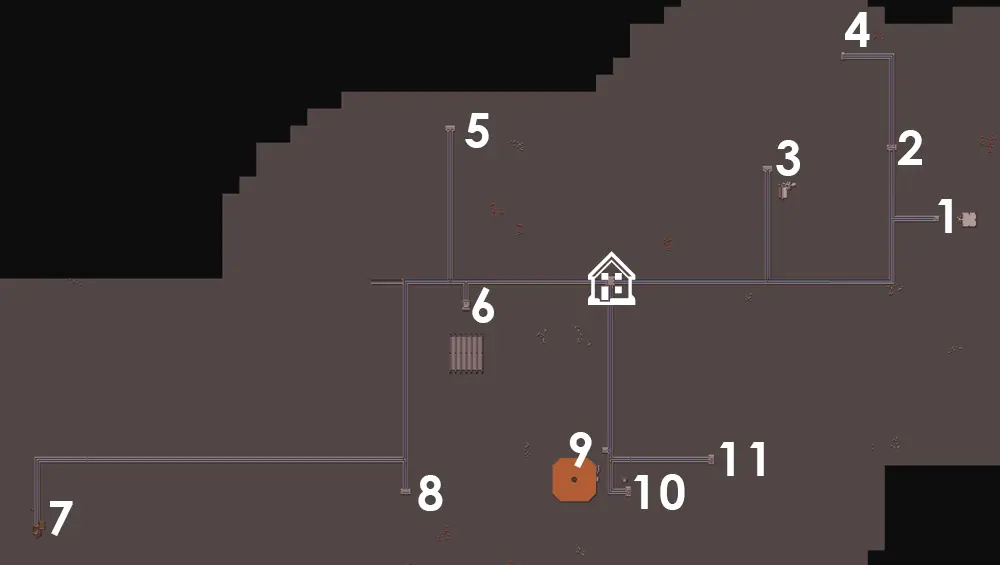
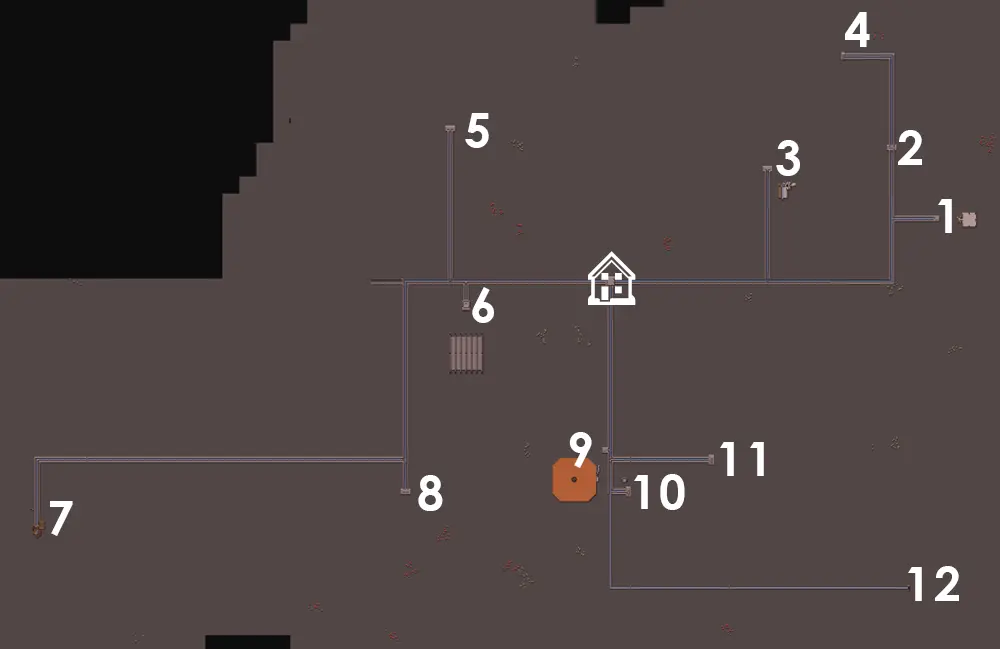
调整文档

diff --git a/docusaurus.config.ts b/docusaurus.config.ts
@@ -92,12 +92,20 @@ const config: Config = {
                     title: '文档',
                     items: [
                         {
-                            label: '服务器概述',
+                            label: '概述',
                             to: '/docs/intro',
                         },
                         {
-                            label: '加入服务器',
-                            to: '/docs/guide/alpha'
+                            label: '指南',
+                            to: '/docs/category/-指南'
+                        },
+                        {
+                            label: '地点列表',
+                            to: '/docs/category/-地点列表'
+                        },
+                        {
+                            label: '赞助者名单',
+                            to: '/docs/category/赞助者名单'
                         }
                     ],
                 },
@@ -105,13 +113,34 @@ const config: Config = {
                     title: '更多',
                     items: [
                         {
-                            label: 'GitHub',
+                            label: '本站GitHub仓库',
                             href: 'https://github.com/masterLazy/TwoThreeBlocks-Wiki',
+                        },
+                    ],
+                },
+                {
+                    title: '常用网站',
+                    items: [
+                        {
+                            label: '中文Minecraft Wiki镜像站 (Bilibili)',
+                            href: 'https://wiki.biligame.com/mc/Minecraft_Wiki',
+                        },
+                        {
+                            label: 'Modrinth (Mod 下载)',
+                            href: 'https://modrinth.com/',
+                        },
+                        {
+                            label: 'MC百科 (mcmod.cn)',
+                            href: 'https://www.mcmod.cn/',
+                        },
+                        {
+                            label: 'ChunkBase',
+                            href: 'https://www.chunkbase.com/',
                         },
                     ],
                 }
             ],
-            copyright: `Copyright © ${new Date().getFullYear()} @masterLazy | Built with Docusaurus`,
+            copyright: `Copyright © ${new Date().getFullYear()} @TwoThreeBlocks | Built with Docusaurus`,
         },
         prism: {
             theme: prismThemes.github,

diff --git a/src/pages/index.tsx b/src/pages/index.tsx
@@ -18,15 +18,15 @@ function HomepageHeader() {
                 <div className={styles.buttons}>
                     <Link
                         className="button button--secondary button--lg"
-                        to="/docs/guide/alpha">
-                        加入服务器 💬
+                        to="/docs/intro">
+                        服务器概述 📔
                     </Link>
                 </div>
                 <div className={styles.buttons}>
                     <Link
                         className="button button--secondary button--lg"
-                        to="/docs/intro">
-                        查看服务器概述
+                        to="/docs/guide/alpha">
+                        加入服务器 🖐
                     </Link>
                 </div>
             </div>

diff --git a/docs/place/netherTraffic.md b/docs/place/netherTraffic.md
@@ -32,17 +32,18 @@ sidebar_position: 2
 | **1**  | -310 -50   | [疣猪兽农场](/docs/place/machine/疣猪兽农场)                 |                                                            |
 | **2**  | +246 -124  | [【蘑菇岛】](/docs/place/landscape/蘑菇岛)                   | 这里的传送门旁边有两个绿宝石块。                           |
 | **3**  | +129 -104  | [【刷怪塔】](/docs/place/machine/刷怪塔)、[【守卫者农场】、守卫者农场收集装置](/docs/place/machine/守卫者农场) |                                                            |
-| **4**  | +200 -210  | [【~~海龟农场~~】](/docs/place/machine/海龟农场)             | 这个传送门的四角是用绿宝石块填充的，旁边也有两个绿宝石块。 |
+| **4**  | +200 -210  | [【旧海龟农场】](/docs/place/legacy/旧海龟农场)              | 这个传送门的四角是用绿宝石块填充的，旁边也有两个绿宝石块。 |
 | **5**  | -170 -143  | 【冰川】                                                     |                                                            |
 | **6**  | -1243 +562 | [恶魂塔、【恶魂塔收集装置】](/docs/place/machine/恶魂塔)     |                                                            |
 | **7**  | -559 +239  | [凋灵骷髅农场](/docs/place/machine/凋灵骷髅农场)             |                                                            |
 | **8**  | -212 +197  | [【女巫塔】](/docs/place/machine/女巫塔)                     |                                                            |
 | **9**  | -24 +161   | [僵尸猪灵塔](/docs/place/machine/僵尸猪灵塔)                 |                                                            |
-| **10** | -2 +200    | [【袭击塔】](/docs/place/machine/袭击塔)                     |                                                            |
+| **10** | -2 +200    | 【掠夺者前哨站】、[【旧袭击塔】](/docs/place/legacy/旧袭击塔) | 掠夺者前哨站在主世界的坐标：<br />`-8 +63 +1272`           |
 | **11** | +75 +170   | 【末地传送门】                                               |                                                            |
+| **12** | +262 +291  | 【古代城】                                                   |                                                            |
 
 :::note
 
-下表中【某地】表示通向某地的下界传送门。
+表中【某地】表示通向某地的下界传送门。
 
 :::

diff --git a/docs/place/legacy/旧袭击塔.md b/docs/place/legacy/旧袭击塔.md
@@ -1,4 +1,4 @@
-# 袭击塔
+# 旧袭击塔
 
 ```
 主要建造者：		sin_zri, LeaDer_LD
@@ -6,7 +6,13 @@
 主世界：			+3 ~ +1617
 ```
 
-![](/img/place/袭击塔.webp)
+:::info
+
+旧袭击塔仍然存在，但是在服务器升级到 1.21.4 后无法继续发挥作用。
+
+:::
+
+![](/img/place/旧袭击塔.webp)
 
 生产**绿宝石**、**不死图腾**、不详旗帜、鞍等。
 
@@ -26,7 +32,7 @@
 
 2. 跟随下面图示的指引，来到挂机平台。在这里喝下不详之瓶，然后会触发袭击。你在这里给怪物 “削脚”，击退袭击。
 
-![](/img/place/袭击塔教程.webp)
+![](/img/place/旧袭击塔教程.webp)
 
 3. 一轮袭击结束后，你可以跳入身后的洞中（你转身后的左边 / 图中右边小图上面没有水的那个），你会降落在一个村民旁边（不用担心，下面有水），然后通过气泡柱回到挂机平台，这样你就能触发新一轮的袭击。
 4. 确保身上的不祥之兆效果已经清空，然后你可以离开袭击塔。

diff --git a/docs/place/legacy/旧海龟农场.md b/docs/place/legacy/旧海龟农场.md
@@ -1,4 +1,4 @@
-# ~~海龟农场~~
+# 旧海龟农场
 
 ```
 主要建造者：		不详
@@ -6,12 +6,12 @@
 主世界：			+1590 ~ -1660
 ```
 
-:::note
+:::info
 
-这个农场过去存在于服务器，但在服务器升级到 1.21.4 后丢失了。
+旧海龟农场在服务器升级到 1.21.4 后丢失了。
 
 此处仍有建设海龟农场的生物群系条件，但是重建尚未开始。
 
 :::
 
-![](/img/place/海龟农场.webp)
+![](/img/place/旧海龟农场.webp)

diff --git a/docs/place/machine/刷铁塔.md b/docs/place/machine/刷铁塔.md
@@ -1,10 +1,14 @@
 # 刷铁塔
 
 ```
-主要建造者：		sin_zri, lemoncola_87
+主要建造者：		sin_zri, lemoncola_87, msterLazy
 主世界：			-50 ~ +100
 ```
 
 ![](/img/place/刷铁塔.webp)
 
 服务器源源不断的铁锭供给。
+
+1.21 以后使用合成器，直接把铁锭合成**铁块**储存。
+
+除了铁块，这里还生产骨粉和虞美人。

diff --git a/docs/intro.md b/docs/intro.md
@@ -60,4 +60,3 @@ TTB 的工业部门在不断完善中
 | --------- | ------------------------- |
 | 2024.7.27 | 服务器成立，版本为 1.16.5 |
 | 2025.3.29 | 服务器升级到 1.21.4       |
-
